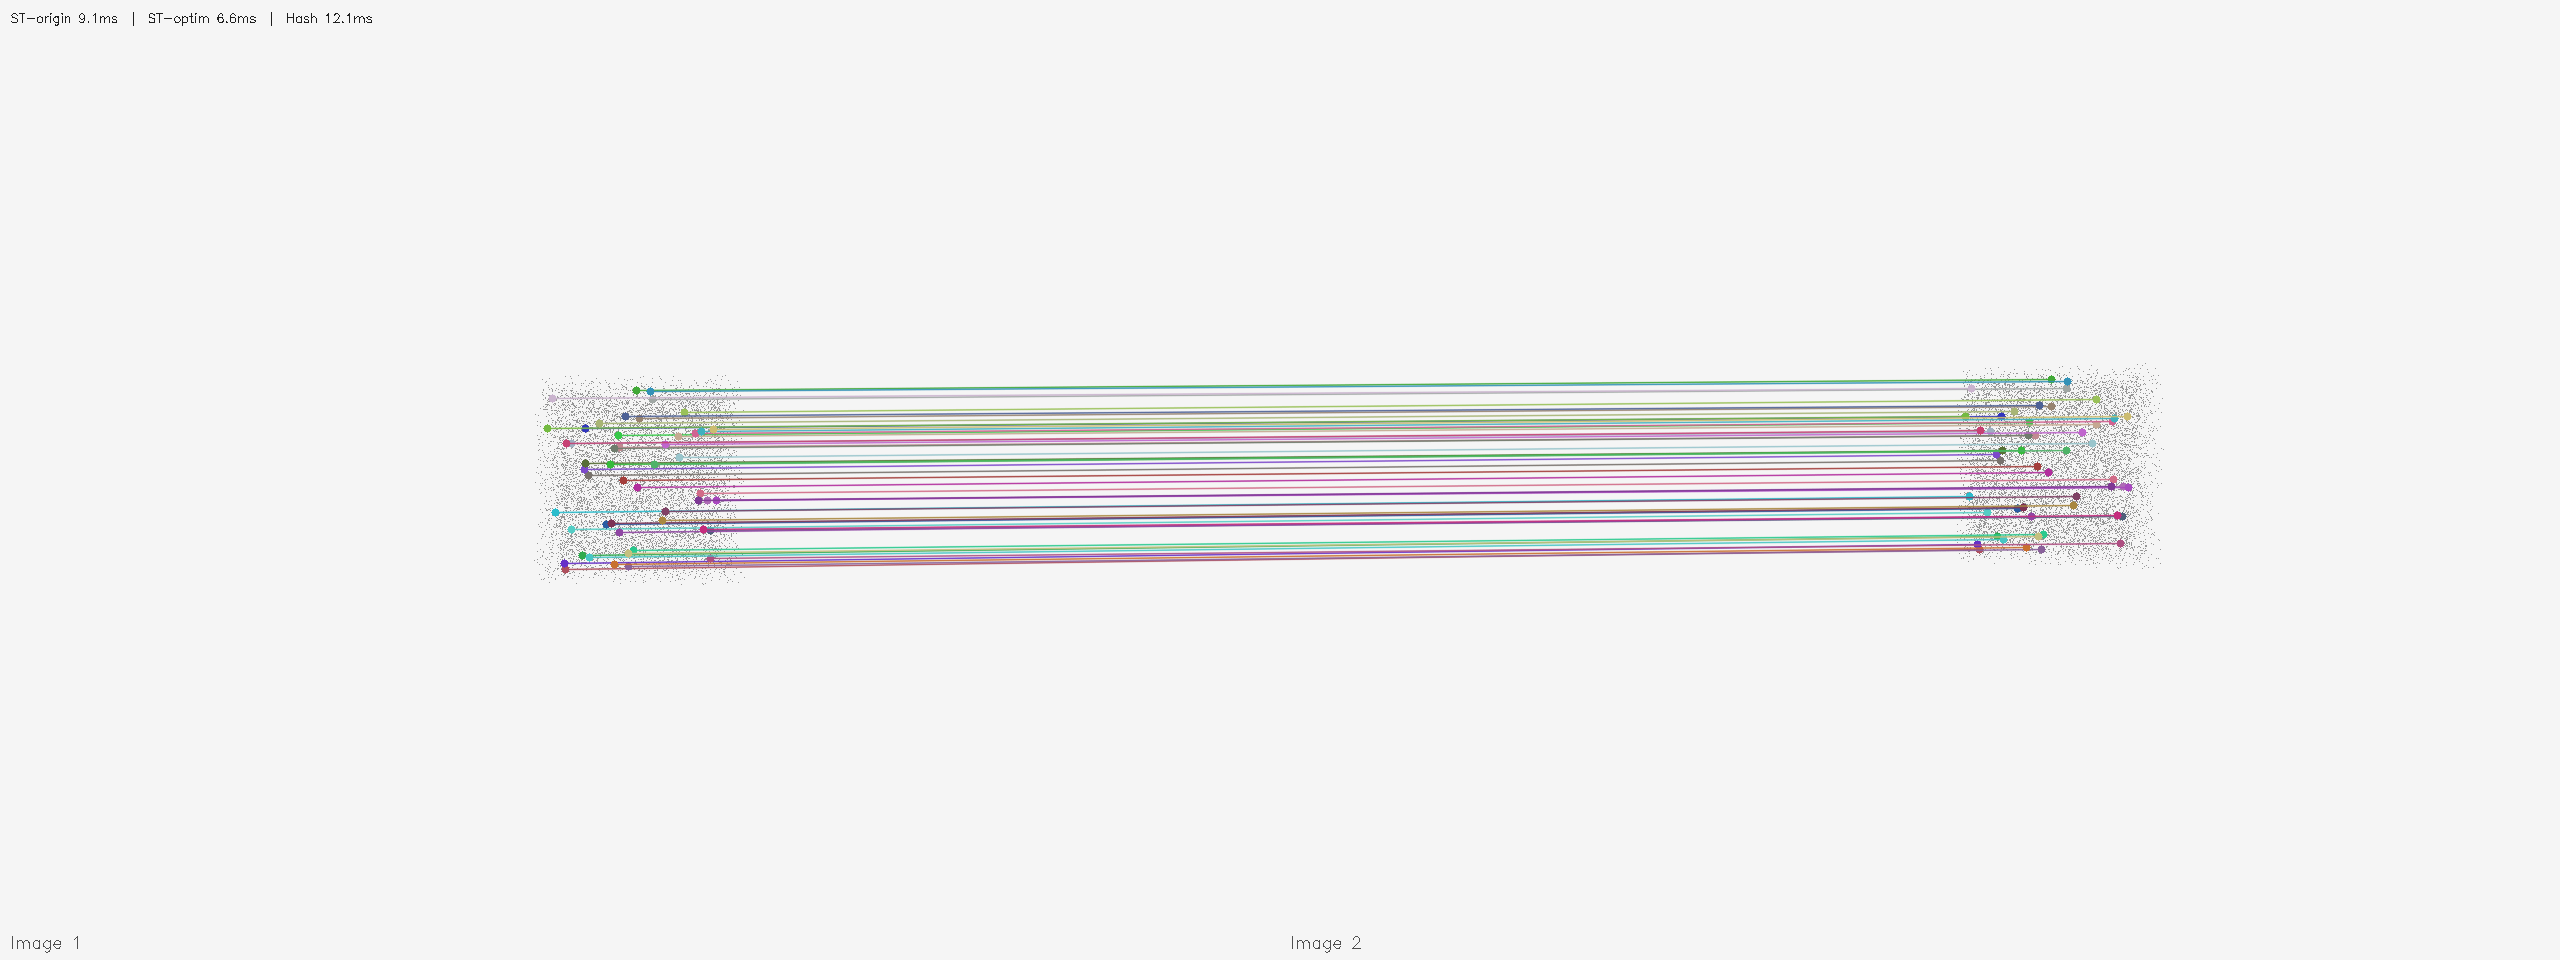
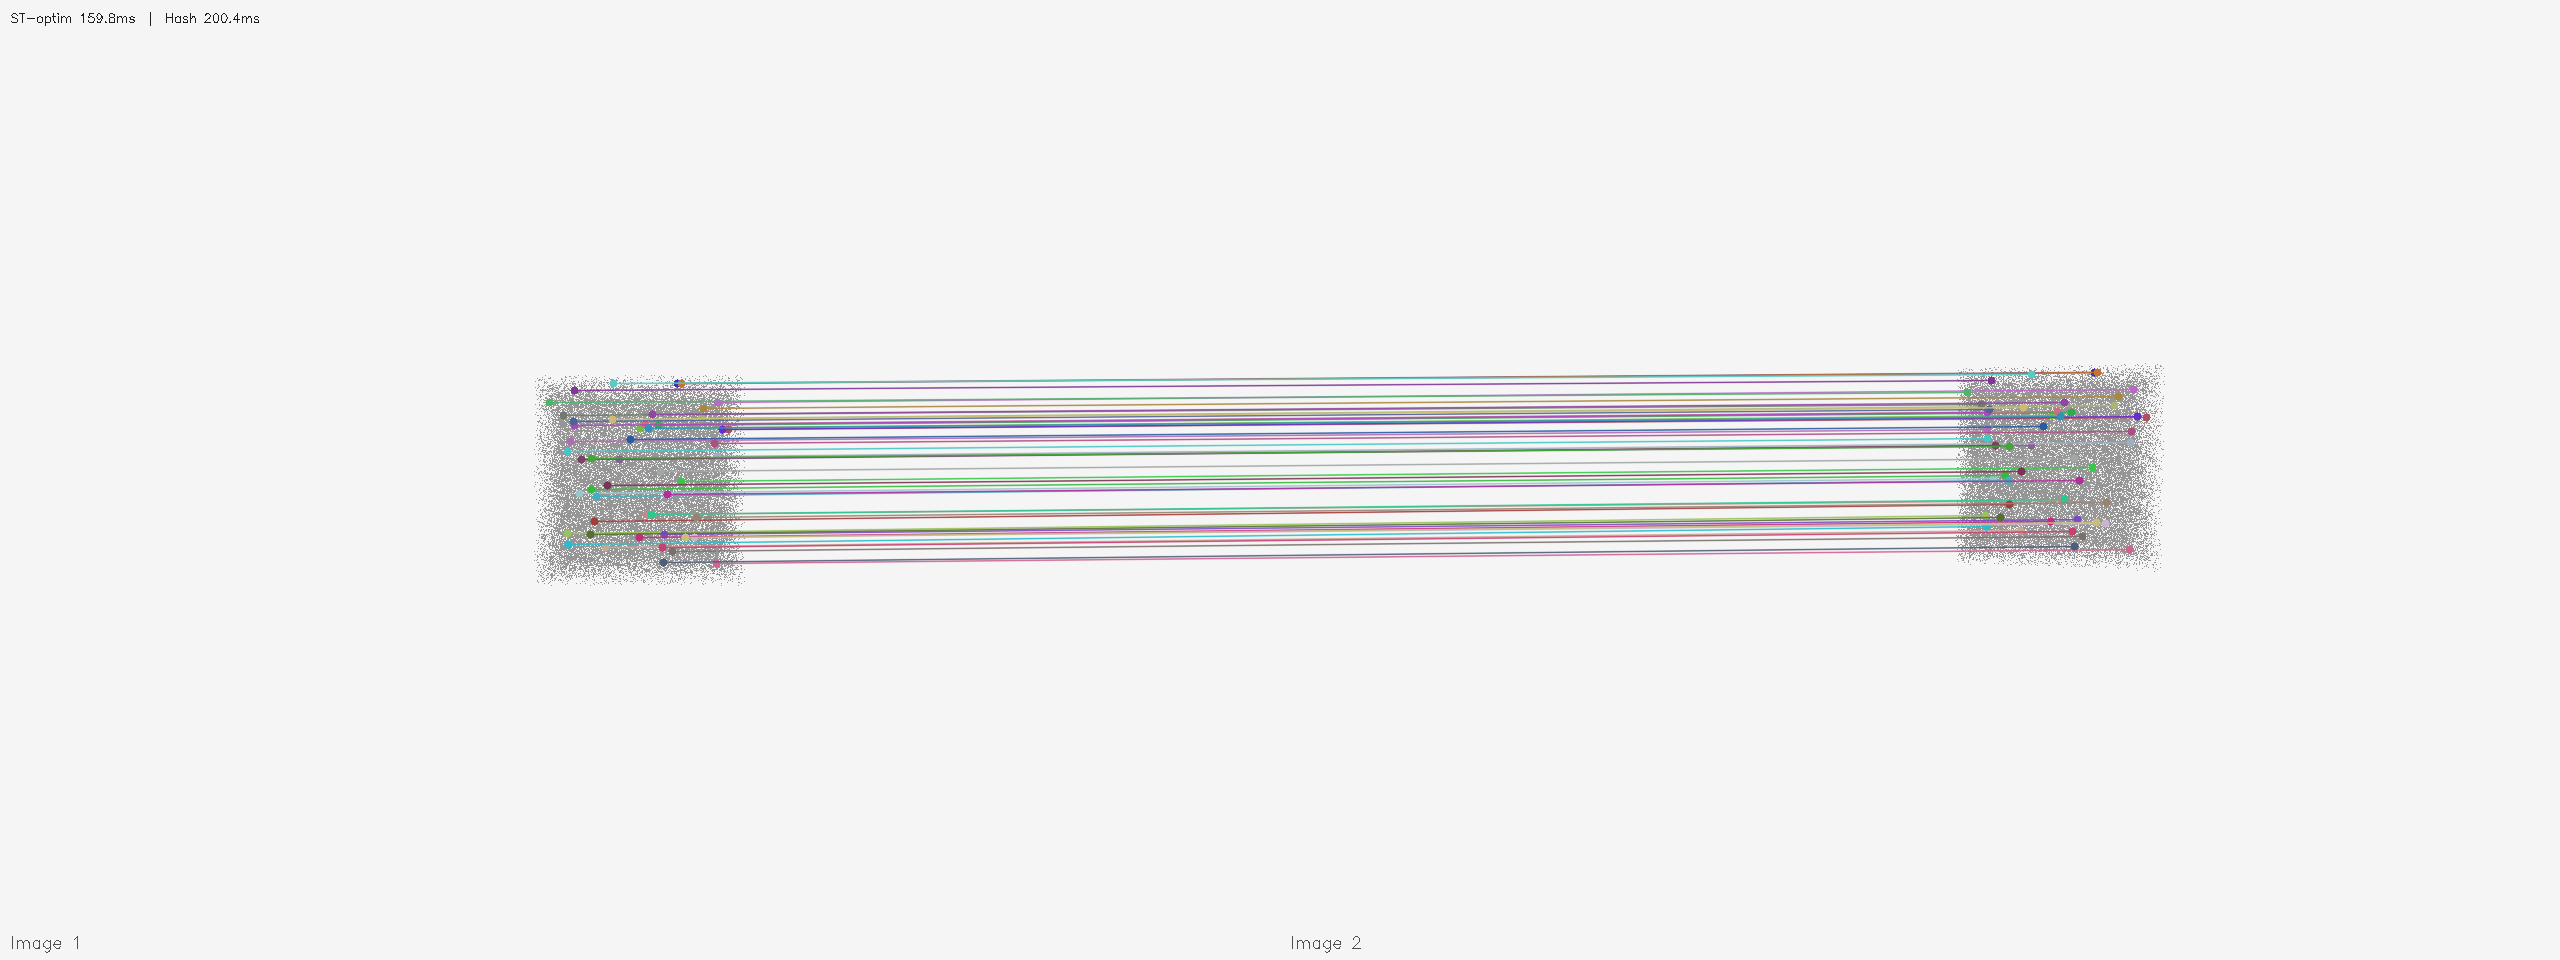
updated html

Changed region(s): [[0.1875, 0.375, 0.8438, 0.625], [0.0625, 0.0, 0.0938, 0.0312]]

diff --git a/demo.py b/demo.py
@@ -19,7 +19,6 @@ import cv2
 try:
     from epipolar_matching import (
         epipolar_wedge_filter_with_segment_tree,
-        epipolar_wedge_filter_with_segment_tree_origin,
         epipolar_hash_filter_cpp,
     )
 except ImportError:
@@ -40,7 +39,7 @@ K = np.array([[600., 0., W / 2.],
               [0.,   0.,     1.]], dtype=np.float32)
 
 # Random 3D points in front of camera 1
-N = 10000
+N = 50000
 pts3d = np.random.uniform(-1.5, 1.5, (N, 3)).astype(np.float32)
 pts3d[:, 2] += 10.0          # push in front (Z > 0)
 
@@ -131,11 +130,6 @@ dt_cv_bf = (_t1 - _t0) * 1000
 good_cv_bf = [m for m, n in raw_matches if m.distance < 0.8 * n.distance]
 print(f"  OpenCV BF time: {dt_cv_bf:.2f} ms   matches: {len(good_cv_bf)}")
 
-# ── Segment tree filter (origin) ───────────────────────────────────────────────
-print(f"\nRunning segment tree filter (origin) (radius = {RADIUS} px) …")
-cands_or, dt_or = epipolar_wedge_filter_with_segment_tree_origin(kp1_list, kp2_list, F, RADIUS)
-print(f"  C++ matching time: {dt_or:.2f} ms")
-
 # ── Segment tree filter (optimised) ───────────────────────────────────────────
 print(f"\nRunning segment tree filter (optim)  (radius = {RADIUS} px) …")
 cands_st, dt_st = epipolar_wedge_filter_with_segment_tree(kp1_list, kp2_list, F, RADIUS)
@@ -157,7 +151,6 @@ def evaluate(cands):
     avg_cands = sum(map(len, cands)) / len(cands)
     return hits, avg_cands
 
-hits_or,   avg_or   = evaluate(cands_or)
 hits_st,   avg_st   = evaluate(cands_st)
 hits_hash, avg_hash = evaluate(cands_hash)
 
@@ -165,7 +158,6 @@ print(f"\n{'':─<72}")
 print(f"{'Method':<30} {'Recall':>8} {'Avg cands':>11} {'Time (ms)':>10}")
 print(f"{'':─<72}")
 print(f"{'CV BF (no epipolar)':<30} {len(good_cv_bf)/n:.3f}  {'N/A':>9}  {dt_cv_bf:>9.1f}")
-print(f"{'Seg Tree (origin)':<30} {hits_or/n:.3f}  {avg_or:>9.1f}  {dt_or:>9.1f}")
 print(f"{'Seg Tree (optimised)':<30} {hits_st/n:.3f}  {avg_st:>9.1f}  {dt_st:>9.1f}")
 print(f"{'Angular Hash':<30} {hits_hash/n:.3f}  {avg_hash:>9.1f}  {dt_hash:>9.1f}")
 print(f"{'':─<72}")
@@ -206,8 +198,7 @@ cv2.putText(vis, "Image 1",
 cv2.putText(vis, "Image 2",
             (W + 10, H - 12), font, fs, (80, 80, 80), thick)
 cv2.putText(vis,
-            f"ST-origin {dt_or:.1f}ms  |  ST-optim {dt_st:.1f}ms  |  "
-            f"Hash {dt_hash:.1f}ms",
+            f"ST-optim {dt_st:.1f}ms  |  Hash {dt_hash:.1f}ms",
             (10, 22), font, fs * 0.75, (30, 30, 30), thick)
 
 out_path = Path(__file__).parent / "demo_matches.png"

diff --git a/demo_real.py b/demo_real.py
@@ -21,7 +21,6 @@ import cv2
 try:
     from epipolar_matching import (
         epipolar_wedge_filter_with_segment_tree,
-        epipolar_wedge_filter_with_segment_tree_origin,
         epipolar_hash_filter_cpp,
     )
 except ImportError:
@@ -159,10 +158,6 @@ print(f"\nRunning segment-tree wedge filter  (radius={RADIUS} px) …")
 cands_st, dt_st = epipolar_wedge_filter_with_segment_tree(kp1_arr, kp2_arr, F, RADIUS)
 print(f"  C++ filter time: {dt_st:.2f} ms")
 
-print(f"Running segment-tree wedge (origin)(radius={RADIUS} px) …")
-cands_or, dt_or = epipolar_wedge_filter_with_segment_tree_origin(kp1_arr, kp2_arr, F, RADIUS)
-print(f"  C++ filter time: {dt_or:.2f} ms")
-
 print(f"Running angular hash filter        (tol={RADIUS} px, bins=45) …")
 cands_hash, dt_hash = epipolar_hash_filter_cpp(kp1_arr, kp2_arr, F, tol=RADIUS)
 print(f"  C++ filter time: {dt_hash:.2f} ms")
@@ -189,7 +184,6 @@ def match_within_candidates(desc1, desc2, candidates, ratio=RATIO):
 
 print("\nDescriptor matching within candidates …")
 matches_st   = match_within_candidates(desc1, desc2, cands_st)
-matches_or   = match_within_candidates(desc1, desc2, cands_or)
 matches_hash = match_within_candidates(desc1, desc2, cands_hash)
 
 # ── OpenCV BF matcher without any epipolar constraint ─────────────────────────
@@ -204,7 +198,6 @@ matches_cv_bf = [(m.queryIdx, m.trainIdx, m.distance)
                  for m, n in _raw if m.distance < 0.8 * n.distance]
 
 avg_st   = sum(len(c) for c in cands_st)   / max(len(cands_st),   1)
-avg_or   = sum(len(c) for c in cands_or)   / max(len(cands_or),   1)
 avg_hash = sum(len(c) for c in cands_hash) / max(len(cands_hash), 1)
 
 print(f"\n{'':─<72}")
@@ -212,7 +205,6 @@ print(f"{'Method':<30} {'Matches':>9} {'Avg cands':>11} {'Time (ms)':>10}")
 print(f"{'':─<72}")
 print(f"{'CV BF (no epipolar)':<30} {len(matches_cv_bf):>9}  {'N/A':>9}  {dt_cv_bf:>9.1f}")
 print(f"{'Seg Tree (optimised)':<30} {len(matches_st):>9}  {avg_st:>9.1f}  {dt_st:>9.1f}")
-print(f"{'Seg Tree (origin)':<30} {len(matches_or):>9}  {avg_or:>9.1f}  {dt_or:>9.1f}")
 print(f"{'Angular Hash':<30} {len(matches_hash):>9}  {avg_hash:>9.1f}  {dt_hash:>9.1f}")
 print(f"{'':─<72}")
 
@@ -242,7 +234,6 @@ cv2.putText(vis, "DSC_0323 (undistorted)", (W + 10, H - 12), font, fs, (80, 80, 
 cv2.putText(vis,
     f"CV-BF: {len(matches_cv_bf)}m {dt_cv_bf:.0f}ms  |  "
     f"ST-optim: {len(matches_st)}m {dt_st:.0f}ms  |  "
-    f"ST-origin: {len(matches_or)}m {dt_or:.0f}ms  |  "
     f"Hash: {len(matches_hash)}m {dt_hash:.0f}ms",
     (10, 22), font, fs, (20, 20, 200), th)
 

diff --git a/README.md b/README.md
@@ -77,17 +77,17 @@ The script configures and builds the CMake project, placing the compiled `.so` m
 python demo.py
 ```
 
-Generates two synthetic camera views of 30 k random 3-D points, runs all three epipolar filters (Seg Tree optimised, Seg Tree origin, Angular Hash), prints a recall/timing table, and saves a visualisation to `demo_matches.png`.
+Generates two synthetic camera views of 10 k random 3-D points, runs all three epipolar filters (Seg Tree optimised, Angular Hash), prints a recall/timing table, and saves a visualisation to `demo_matches.png`.
 
 Expected output (approximate):
 ```
-Method                           Recall   Avg cands   Time (ms)
-────────────────────────────────────────────────────────────────
-CV BF (no epipolar)               0.951         N/A        ...
-Seg Tree (origin)                 1.000       284.4        ...
-Seg Tree (optimised)              1.000       284.4        ...
-Angular Hash                      1.000       284.4        ...
-────────────────────────────────────────────────────────────────
+────────────────────────────────────────────────────────────────────────
+Method                           Recall   Avg cands  Time (ms)
+────────────────────────────────────────────────────────────────────────
+CV BF (no epipolar)            0.964        N/A      183.5
+Seg Tree (optimised)           1.000      530.3        5.1
+Angular Hash                   1.000      530.3       12.4
+────────────────────────────────────────────────────────────────────────
 ```
 
 ### Real-image demo — calibrated fisheye pair
@@ -96,7 +96,18 @@ Angular Hash                      1.000       284.4        ...
 python demo_real.py
 ```
 
-Loads a pair of fisheye images from `exc/`, undistorts them using COLMAP camera parameters, extracts 45 k SIFT keypoints per image, and matches them with each filter. Saves results to `demo_real_matches.png`.
+Loads a pair of fisheye images from `exc/`, undistorts them using COLMAP camera parameters, extracts 50 k SIFT keypoints per image, and matches them with each filter. Saves results to `demo_real_matches.png`.
+
+Expected output (approximate):
+```
+────────────────────────────────────────────────────────────────────────
+Method                           Matches   Avg cands  Time (ms)
+────────────────────────────────────────────────────────────────────────
+CV BF (no epipolar)                 4198        N/A     2905.4
+Seg Tree (optimised)                4336      284.4       14.1
+Angular Hash                        4336      284.4       97.2
+────────────────────────────────────────────────────────────────────────
+```
 
 Requires the following files in `exc/`:
 
